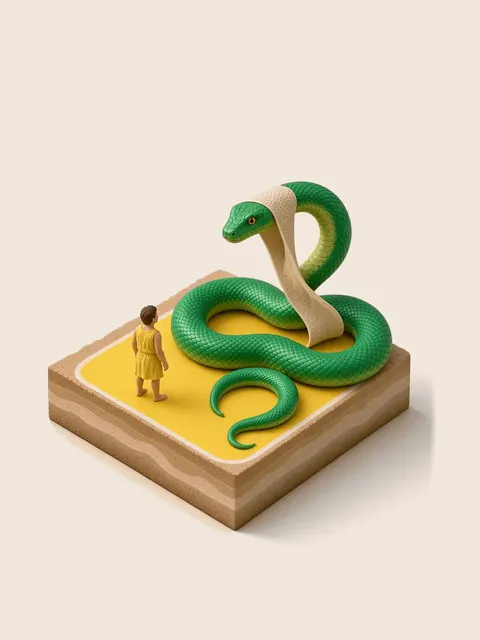
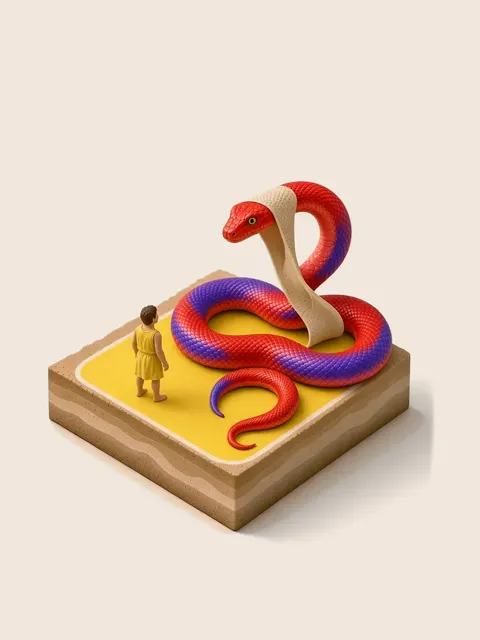
第十三批插画：十二张新卡，并重画 mut。
noc、test、cult、cresc、crea、ign、lab、neg、aqu、cura、arm、lingu 接入实测色和缩略图。mut 换成朱红底的新画面。aquarium 打开 aqu，linguist 打开 lingu。有插画的词根增加到 184 条。

diff --git a/src/data/rootColors.ts b/src/data/rootColors.ts
@@ -140,7 +140,7 @@ export const rootColors: Record<string, RootColor> = {
   matr: { hue: 29.5, accent: '#D88477', deep: '#7E4239', wash: '#FFEBE7', skyTop: '#FFE0DA', skyBottom: '#FFF5ED', spark: '#87CBD6', steps: ['#FEF9F8', '#FCF3F1', '#FFEBE7', '#FFE4DF', '#FEDAD3', '#FCCEC6', '#F3B4AA', '#E4998D', '#D88477', '#BA6F63', '#7E4239', '#542B24'] },
   pop: { hue: 33.1, accent: '#D78573', deep: '#7E4236', wash: '#FFEBE6', skyTop: '#FFE0D9', skyBottom: '#FEF5ED', spark: '#88CAD9', steps: ['#FEF9F8', '#FCF3F1', '#FFEBE6', '#FFE4DE', '#FEDAD2', '#FCCEC4', '#F2B5A7', '#E39A89', '#D78573', '#BA705F', '#7E4236', '#542B22'] },
   pac: { hue: 250.1, accent: '#6AA3DD', deep: '#2D5883', wash: '#E5F1FF', skyTop: '#D7EAFF', skyBottom: '#F5F6FF', spark: '#DBB68D', steps: ['#F8FBFE', '#F1F6FC', '#E5F1FF', '#DCEDFF', '#CFE6FF', '#C0DEFE', '#A1CAF5', '#82B4E8', '#6AA3DD', '#578ABF', '#2D5883', '#1D3A58'] },
-  mut: { hue: 151.7, accent: '#6AB17D', deep: '#2C633D', wash: '#E4F5E8', skyTop: '#D5F0DB', skyBottom: '#EDFAF7', spark: '#D9AED2', steps: ['#F8FBF9', '#F1F7F2', '#E4F5E8', '#DCF1E0', '#D0ECD6', '#C1E5C9', '#A2D4AE', '#82C092', '#6AB17D', '#569768', '#2C633D', '#1C4127'] },
+  mut: { hue: 29.9, accent: '#D78577', deep: '#7E4239', wash: '#FFEBE7', skyTop: '#FFE0DA', skyBottom: '#FFF5ED', spark: '#87CBD7', steps: ['#FEF9F8', '#FCF3F1', '#FFEBE7', '#FFE4DF', '#FEDAD3', '#FCCEC6', '#F3B4A9', '#E4998D', '#D78577', '#BA6F63', '#7E4239', '#542B24'] },
   auto: { hue: 286.7, accent: '#9994DC', deep: '#524E82', wash: '#EEEEFF', skyTop: '#E5E5FF', skyBottom: '#FBF4FE', spark: '#C3C18D', steps: ['#FAFAFE', '#F5F5FC', '#EEEEFF', '#E9E8FF', '#E1E0FF', '#D7D6FD', '#C1BFF5', '#ABA7E7', '#9994DC', '#827DBF', '#524E82', '#363357'] },
   min: { hue: 32.7, accent: '#D78574', deep: '#7E4236', wash: '#FFEBE6', skyTop: '#FFE0D9', skyBottom: '#FFF5ED', spark: '#88CAD8', steps: ['#FEF9F8', '#FCF3F1', '#FFEBE6', '#FFE4DE', '#FEDAD2', '#FCCEC4', '#F2B5A7', '#E39A8A', '#D78574', '#BA7060', '#7E4236', '#542B23'] },
   ord: { hue: 257.5, accent: '#74A0DF', deep: '#365684', wash: '#E7F1FF', skyTop: '#DAE9FF', skyBottom: '#F6F6FF', spark: '#D7B98B', steps: ['#F8FBFE', '#F1F6FC', '#E7F1FF', '#DFECFF', '#D3E5FF', '#C5DCFF', '#A7C8F7', '#8AB1E9', '#74A0DF', '#6088C1', '#365684', '#223958'] },
@@ -183,6 +183,18 @@ export const rootColors: Record<string, RootColor> = {
   nunci: { hue: 261.2, accent: '#799EE0', deep: '#3A5585', wash: '#E8F0FF', skyTop: '#DCE9FF', skyBottom: '#F6F5FF', spark: '#D5BA8A', steps: ['#F8FAFE', '#F2F6FC', '#E8F0FF', '#E0ECFF', '#D4E4FF', '#C7DCFF', '#ABC7F7', '#8EB0EA', '#799EE0', '#6586C2', '#3A5585', '#253859'] },
   pict: { hue: 36.1, accent: '#D78670', deep: '#7D4333', wash: '#FFEBE5', skyTop: '#FFE0D7', skyBottom: '#FEF5EC', spark: '#89CADB', steps: ['#FEF9F8', '#FCF3F1', '#FFEBE5', '#FFE4DD', '#FEDAD0', '#FCCFC2', '#F2B5A4', '#E39A87', '#D78670', '#B9705C', '#7D4333', '#542B20'] },
   san: { hue: 201.9, accent: '#36B1BA', deep: '#006268', wash: '#DDF5F7', skyTop: '#CAF0F3', skyBottom: '#EEF9FF', spark: '#E8ACAA', steps: ['#F7FBFC', '#EEF8F8', '#DDF5F7', '#D3F2F4', '#C4ECEF', '#B1E6EA', '#89D5DA', '#5FC1C8', '#36B1BA', '#2298A0', '#006268', '#004145'] },
+  noc: { hue: 33.5, accent: '#D78573', deep: '#7E4235', wash: '#FFEBE6', skyTop: '#FFE0D9', skyBottom: '#FEF5ED', spark: '#88CAD9', steps: ['#FEF9F8', '#FCF3F1', '#FFEBE6', '#FFE4DE', '#FEDAD1', '#FCCEC4', '#F2B5A6', '#E39A89', '#D78573', '#BA705F', '#7E4235', '#542B22'] },
+  test: { hue: 308.1, accent: '#B08CD0', deep: '#63487A', wash: '#F4ECFD', skyTop: '#EFE1FD', skyBottom: '#FEF3FA', spark: '#B1C797', steps: ['#FBFAFD', '#F7F4FB', '#F4ECFD', '#F1E6FC', '#EBDCF9', '#E4D1F7', '#D3B9EC', '#BFA0DC', '#B08CD0', '#9776B4', '#63487A', '#412F51'] },
+  cult: { hue: 155.4, accent: '#64B282', deep: '#276341', wash: '#E3F5E9', skyTop: '#D4F0DD', skyBottom: '#ECFAF8', spark: '#DBADCF', steps: ['#F8FBF9', '#F0F8F3', '#E3F5E9', '#DBF2E2', '#CEECD7', '#BFE6CB', '#9FD5B1', '#7EC196', '#64B282', '#51986D', '#276341', '#18422A'] },
+  cresc: { hue: 262.0, accent: '#7A9EE0', deep: '#3B5585', wash: '#E8F0FF', skyTop: '#DCE9FF', skyBottom: '#F7F5FF', spark: '#D4BA8A', steps: ['#F9FAFE', '#F2F6FC', '#E8F0FF', '#E0EBFF', '#D5E4FF', '#C7DBFF', '#ABC7F7', '#8FB0EA', '#7A9EE0', '#6686C2', '#3B5585', '#263859'] },
+  crea: { hue: 31.7, accent: '#D78575', deep: '#7E4237', wash: '#FFEBE6', skyTop: '#FFE0D9', skyBottom: '#FFF5ED', spark: '#88CAD8', steps: ['#FEF9F8', '#FCF3F1', '#FFEBE6', '#FFE4DE', '#FEDAD2', '#FCCEC5', '#F2B4A8', '#E39A8B', '#D78575', '#BA6F61', '#7E4237', '#542B23'] },
+  ign: { hue: 35.3, accent: '#D78671', deep: '#7E4334', wash: '#FFEBE5', skyTop: '#FFE0D8', skyBottom: '#FEF5ED', spark: '#88CADA', steps: ['#FEF9F8', '#FCF3F1', '#FFEBE5', '#FFE4DD', '#FEDAD1', '#FCCFC3', '#F2B5A5', '#E39A87', '#D78671', '#BA705D', '#7E4334', '#542B21'] },
+  lab: { hue: 201.0, accent: '#36B1B9', deep: '#006267', wash: '#DDF5F7', skyTop: '#CAF0F3', skyBottom: '#EDF9FF', spark: '#E8ACAA', steps: ['#F7FBFC', '#EEF8F8', '#DDF5F7', '#D3F2F4', '#C4ECEF', '#B1E6E9', '#89D5DA', '#5FC1C7', '#36B1B9', '#22989F', '#006267', '#004145'] },
+  neg: { hue: 259.0, accent: '#769FDF', deep: '#385684', wash: '#E7F1FF', skyTop: '#DBE9FF', skyBottom: '#F6F6FF', spark: '#D6B98B', steps: ['#F8FBFE', '#F1F6FC', '#E7F1FF', '#DFECFF', '#D3E5FF', '#C5DCFF', '#A9C7F7', '#8CB1EA', '#769FDF', '#6287C1', '#385684', '#243859'] },
+  aqu: { hue: 202.0, accent: '#36B1BA', deep: '#006268', wash: '#DDF5F7', skyTop: '#CAF0F3', skyBottom: '#EEF9FF', spark: '#E8ACAA', steps: ['#F7FBFC', '#EEF8F8', '#DDF5F7', '#D3F2F4', '#C4ECEF', '#B1E6EA', '#89D5DA', '#5FC1C8', '#36B1BA', '#2298A0', '#006268', '#004145'] },
+  cura: { hue: 157.6, accent: '#61B284', deep: '#246443', wash: '#E3F5E9', skyTop: '#D3F0DE', skyBottom: '#ECFAF8', spark: '#DCADCE', steps: ['#F8FBF9', '#F0F8F3', '#E3F5E9', '#DAF2E3', '#CDECD9', '#BEE6CD', '#9DD5B3', '#7CC199', '#61B284', '#4E986F', '#246443', '#16422B'] },
+  arm: { hue: 33.6, accent: '#D78573', deep: '#7E4235', wash: '#FFEBE6', skyTop: '#FFE0D8', skyBottom: '#FEF5ED', spark: '#88CAD9', steps: ['#FEF9F8', '#FCF3F1', '#FFEBE6', '#FFE4DD', '#FEDAD1', '#FCCEC4', '#F2B5A6', '#E39A89', '#D78573', '#BA705F', '#7E4235', '#542B22'] },
+  lingu: { hue: 12.6, accent: '#D7828C', deep: '#7D4048', wash: '#FFEAEB', skyTop: '#FFDFE1', skyBottom: '#FFF4F0', spark: '#87CCCA', steps: ['#FEF9F9', '#FCF3F3', '#FFEAEB', '#FFE3E5', '#FED8DB', '#FCCDD0', '#F2B2B8', '#E3979F', '#D7828C', '#B96D76', '#7D4048', '#54292F'] },
 };
 
 export function hasSampledColor(id: string): boolean {

diff --git a/src/lib/match.test.ts b/src/lib/match.test.ts
@@ -13,12 +13,12 @@ const authored = illustrated.filter((root) => !batchIllustrated.has(root.id));
 const batch = illustrated.filter((root) => batchIllustrated.has(root.id));
 
 describe('dataset', () => {
-  it('ships about 250 roots, with 172 paintings and the original 42 still fully written', () => {
+  it('ships about 250 roots, with 184 paintings and the original 42 still fully written', () => {
     expect(roots.length).toBe(250);
-    expect(illustrated).toHaveLength(172);
+    expect(illustrated).toHaveLength(184);
     expect(authored).toHaveLength(42);
-    expect(batch).toHaveLength(130);
-    expect(cream.length).toBe(roots.length - 172);
+    expect(batch).toHaveLength(142);
+    expect(cream.length).toBe(roots.length - 184);
     const words = roots.flatMap((root) => root.words.map((word) => word.word.toLowerCase()));
     expect(words.length).toBeGreaterThanOrEqual(300);
     expect(new Set(words).size).toBe(words.length);
@@ -133,6 +133,9 @@ describe('lookup', () => {
     expect(lookup('urban')).toMatchObject({ kind: 'word', hit: { word: 'urban', root: { id: 'urb', illustrated: true } } });
     expect(lookup('dentist')).toMatchObject({ kind: 'word', hit: { word: 'dentist', root: { id: 'dent', illustrated: true } } });
     expect(lookup('florist')).toMatchObject({ kind: 'word', hit: { word: 'florist', root: { id: 'flor', illustrated: true } } });
+    expect(lookup('mutate')).toMatchObject({ kind: 'word', hit: { word: 'mutate', root: { id: 'mut', illustrated: true } } });
+    expect(lookup('aquarium')).toMatchObject({ kind: 'word', hit: { word: 'aquarium', root: { id: 'aqu', illustrated: true } } });
+    expect(lookup('linguist')).toMatchObject({ kind: 'word', hit: { word: 'linguist', root: { id: 'lingu', illustrated: true } } });
     expect(lookup('microbe')).toMatchObject({ kind: 'word', hit: { word: 'microbe', root: { id: 'micro', illustrated: true } } });
     expect(lookup('microscope')).toMatchObject({ kind: 'word', hit: { word: 'microscope', root: { id: 'micro', illustrated: true } } });
     expect(lookup('compose')).toMatchObject({ kind: 'word', hit: { word: 'compose', root: { id: 'pos' } } });

diff --git a/src/data/provisional.ts b/src/data/provisional.ts
@@ -155,6 +155,18 @@ export const batchIllustrated = new Set([
   'nunci',
   'pict',
   'san',
+  'noc',
+  'test',
+  'cult',
+  'cresc',
+  'crea',
+  'ign',
+  'lab',
+  'neg',
+  'aqu',
+  'cura',
+  'arm',
+  'lingu',
 ]);
 
 const batchAlt: Record<string, string> = {
@@ -245,7 +257,7 @@ const batchAlt: Record<string, string> = {
   matr: '母亲抱着婴儿，身后的山上是一座城。',
   pop: '很多人围成一圈，每人拿着一块板，中间插着一面旗。',
   pac: '一只白鸽衔着橄榄枝，飞过蓝色的地面和一张石桌。',
-  mut: '一条绿蛇正在蜕皮，旁边站着一个很小的人。',
+  mut: '一条红紫相间的蛇正在蜕皮，旁边站着一个很小的人。',
   auto: '一个紫色的关节人自己往前走，旁边站着一个真人。',
   min: '三个人从大到小站在红色的地面上。',
   ord: '一排人举着蓝盾，按次序站成一行。',
@@ -288,6 +300,18 @@ const batchAlt: Record<string, string> = {
   nunci: '信使举着卷轴，张嘴大声宣读。',
   pict: '一个人站在画架前，用画笔往画布上涂红色。',
   san: '一个人在喷泉边喝水，泉边长着绿色的植物。',
+  noc: '一个受伤的士兵捂着包扎的手臂，地上有碎陶罐和荆棘。',
+  test: '一个人举起右手，在坐着的长者面前作证。',
+  cult: '一个人在耕地，旁边的小神龛里放着一碗果子。',
+  cresc: '麦子从矮到高长起来，天上挂着一弯新月。',
+  crea: '陶工坐在转盘前，用手把一块泥塑成人形。',
+  ign: '一个小孩拿着火把，去点燃岩洞里的火。',
+  lab: '一个人从倾斜的石板上滑下来，旁边的沙漏也倒了。',
+  neg: '一个人抬手拒绝，对方递过来的卷轴没有接。',
+  aqu: '一个人把陶罐里的水倒出来，后面是一座流水的拱桥。',
+  cura: '一个人拿着掸子，仔细照料手里的彩绘陶罐。',
+  arm: '三个士兵在兵器架前取盾和长矛。',
+  lingu: '集市上两个人面对面说话，一个人指着自己的舌头。',
 };
 
 function originOf(language: string): Origin {

diff --git a/README.md b/README.md
@@ -67,7 +67,7 @@ python3 scripts/depth_maps.py
 
 插画与代码都按 [MIT](LICENSE) 授权。
 
-图鉴里现在有 250 条词根。172 条有插画；其余先用奶油色卡片，词源故事已经写上，插画以后一张张补。
+图鉴里现在有 250 条词根。184 条有插画；其余先用奶油色卡片，词源故事已经写上，插画以后一张张补。
 
 ## 如何增加一条词根
 
